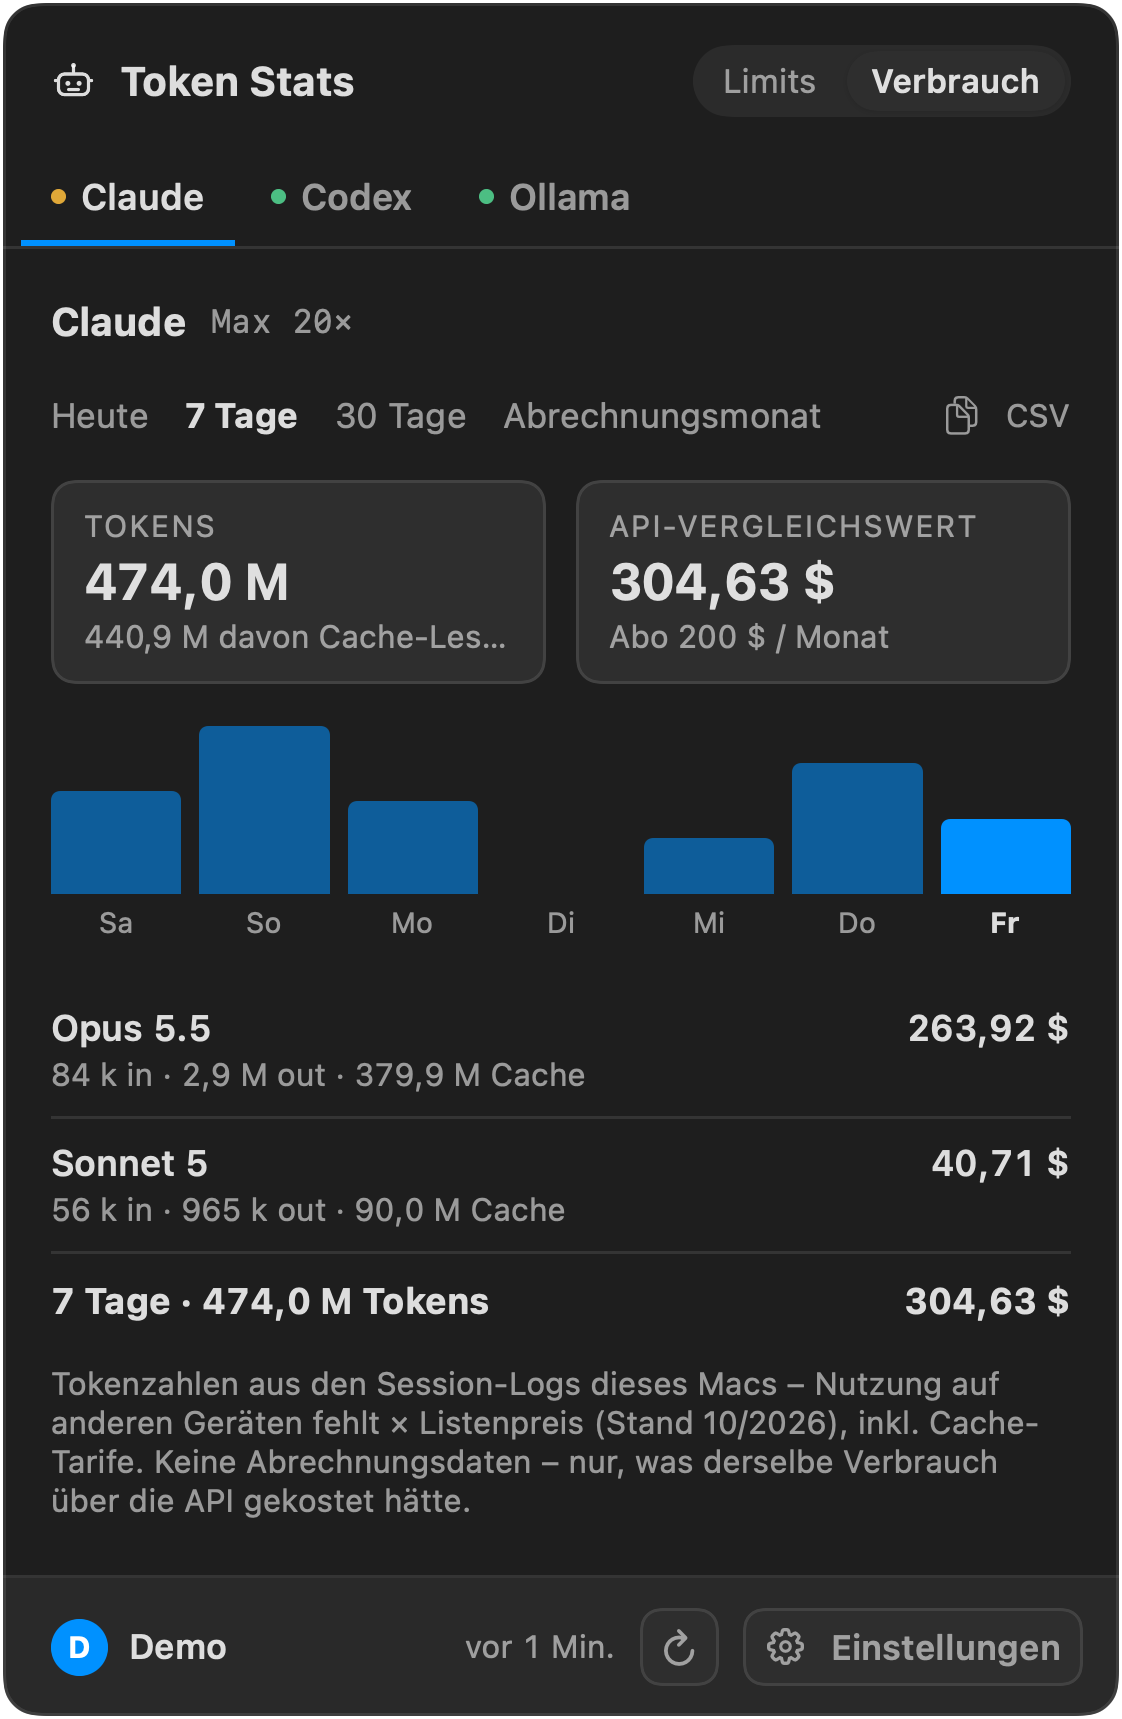
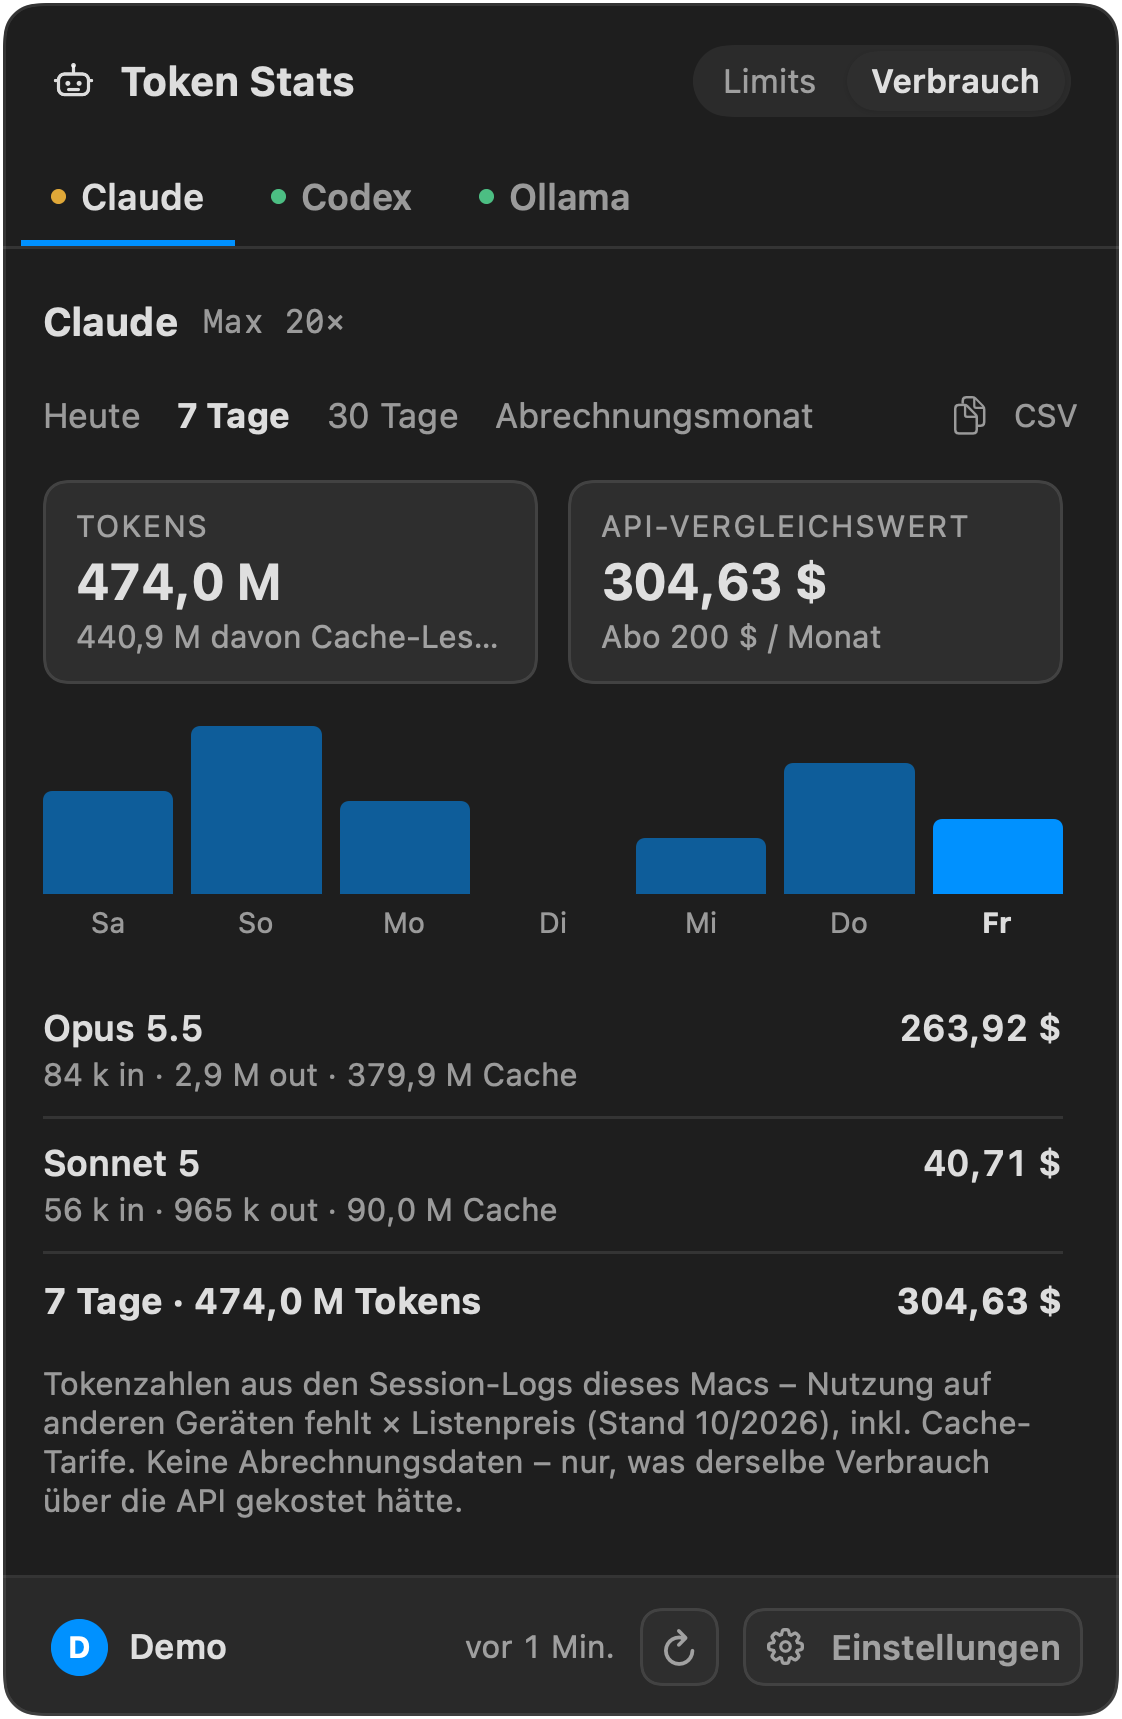
CSV-Button: feste Breite, damit „Kopiert“ nichts verschiebt
Beim Wechsel auf „Kopiert“ wurde der Button breiter und der HStack quetschte
„Abrechnungsmonat“ in zwei Zeilen; mit festen Zeitraum-Labels brach dann
„Kopiert“ selbst um, weil der Restplatz zwischen Spacer und Button geteilt
wird. Beide Beschriftungen liegen jetzt übereinander, Button und Labels haben
ihre Idealbreite.

diff --git a/Sources/TokenStats/UI/UsageView.swift b/Sources/TokenStats/UI/UsageView.swift
@@ -51,6 +51,7 @@ struct UsageView: View {
                     .buttonStyle(.plain)
                     .font(.system(size: 11.5, weight: option == period ? .bold : .regular))
                     .foregroundStyle(option == period ? .primary : .secondary)
+                    .fixedSize()
             }
             Spacer()
             if let summary = consumption.summary(providerID, period), !summary.total.isZero {
@@ -72,9 +73,15 @@ struct UsageView: View {
                 copied = false
             }
         } label: {
-            Label(copied ? "Kopiert" : "CSV", systemImage: copied ? "checkmark" : "doc.on.doc")
-                .font(.system(size: 10.5))
-                .foregroundStyle(.secondary)
+            // Beide Beschriftungen liegen übereinander, damit der Button beim Wechsel
+            // auf „Kopiert“ nicht breiter wird und die Zeitraum-Labels verschiebt.
+            ZStack(alignment: .trailing) {
+                Label("Kopiert", systemImage: "checkmark").opacity(copied ? 1 : 0)
+                Label("CSV", systemImage: "doc.on.doc").opacity(copied ? 0 : 1)
+            }
+            .font(.system(size: 10.5))
+            .foregroundStyle(.secondary)
+            .fixedSize()
         }
         .buttonStyle(.plain)
         .help("Verbrauch dieses Zeitraums als CSV kopieren")
